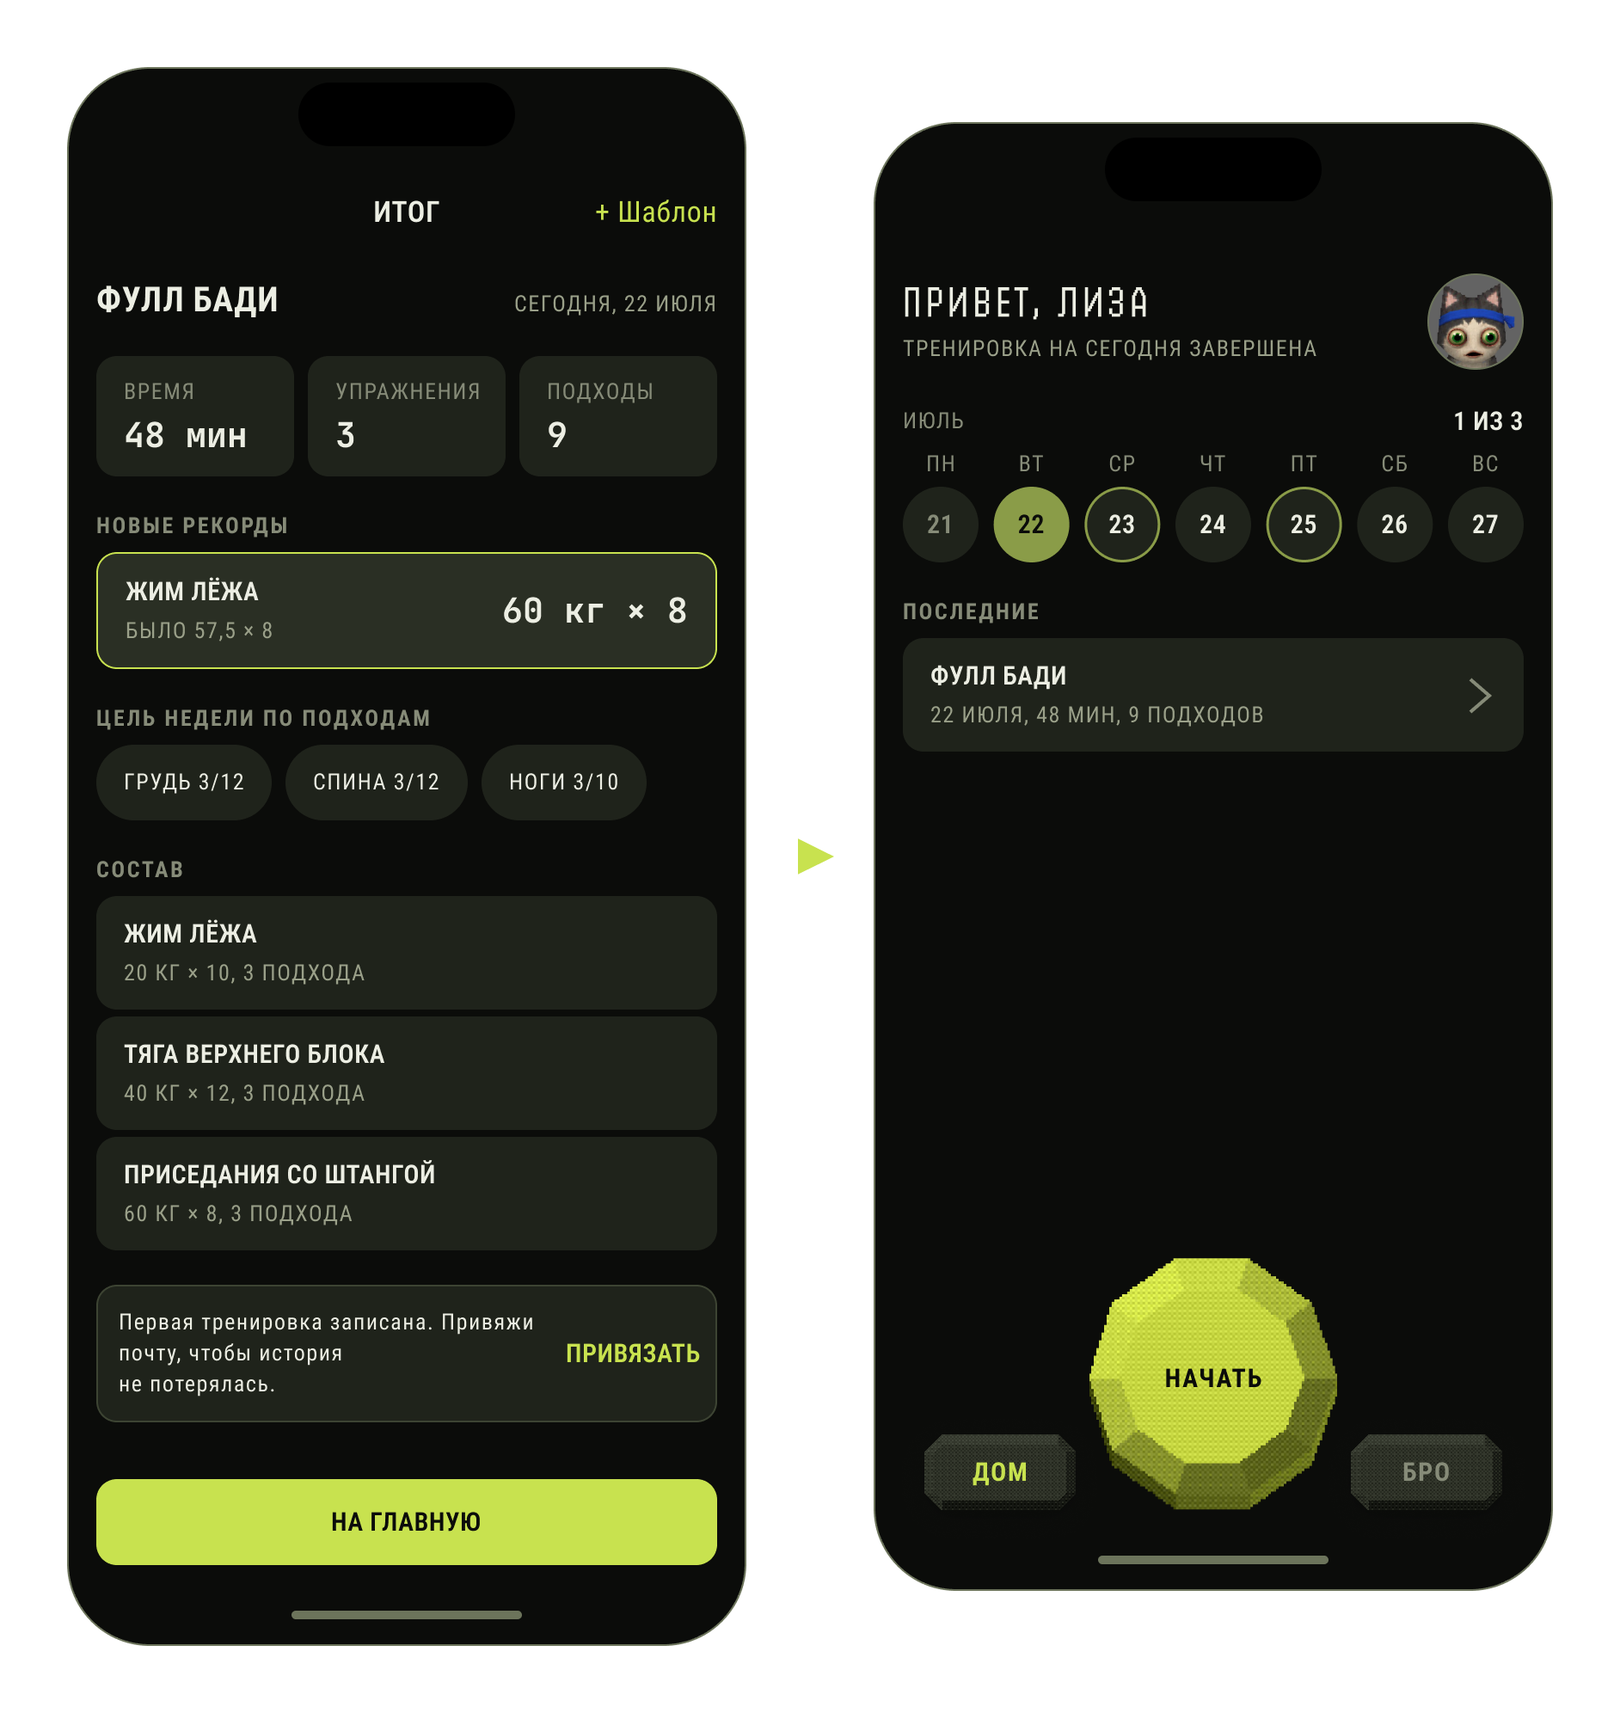
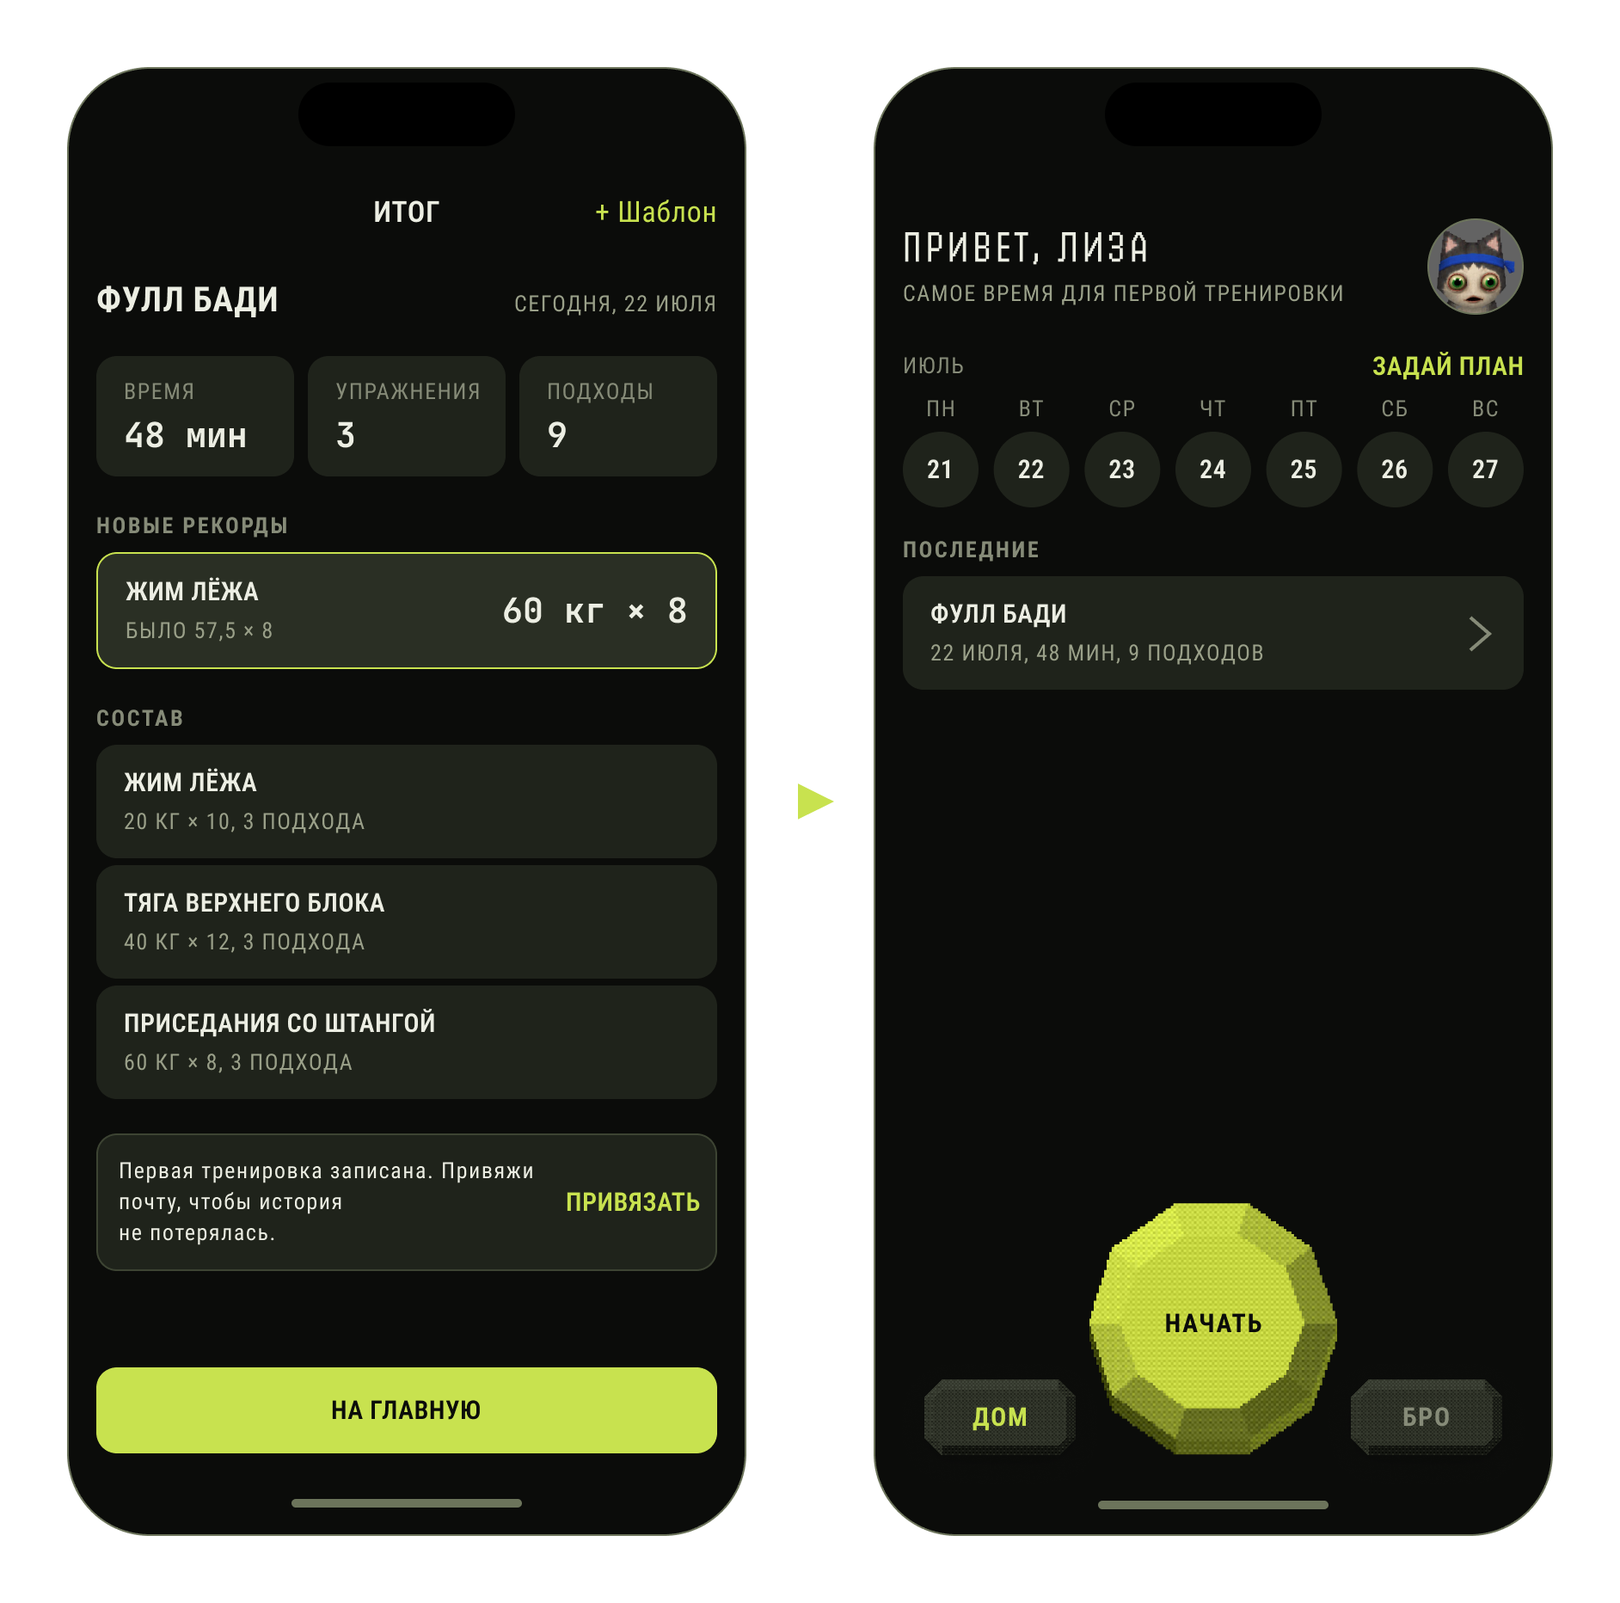
Gym Bro: trim the text, new path pictures and the start buttons
Removed: the rest-timer note, "С главной шаблоны убрала", the template
hypothesis note, "Главная говорит, что происходит" with its two-home
picture, the "легко испортить" sentence, "Что убрала" about "Я тоже иду
сегодня", and the five-accents sentence. "Поэтому механика держится" is
now "Механика держится на трёх слоях".

New exports for path steps 1 and 5 and the first launch; a picture of the
"Начать" and "Начать по плану" buttons follows "Кнопка подсказывает, что
начнётся". Step 5's caption now matches its home screen.

Claude-Session: https://claude.ai/code/session_016deTy2BBLLhJceshsmTCAT

diff --git a/cases/gym-bro.html b/cases/gym-bro.html
@@ -169,8 +169,8 @@
           <figcaption>4. Отмечаю подходы, пока не будут готовы все упражнения.</figcaption>
         </figure>
         <figure class="case-figure case-figure--cutout">
-          <img class="case-figure__img--pair" src="/src/assets/cases/gym-bro/flow-5.webp" srcset="/src/assets/cases/gym-bro/flow-5-560w.webp 560w, /src/assets/cases/gym-bro/flow-5-1120w.webp 1120w, /src/assets/cases/gym-bro/flow-5.webp 1884w" sizes="(max-width: 640px) calc(100vw - 48px), 560px" data-zoom alt="Итог тренировки с рекордом и предложением привязать почту, затем главная с завершённой тренировкой" width="1884" height="1992" loading="lazy" decoding="async" />
-          <figcaption>5. Итог с рекордами и главная, где тренировка на сегодня завершена.</figcaption>
+          <img class="case-figure__img--pair" src="/src/assets/cases/gym-bro/flow-5.webp" srcset="/src/assets/cases/gym-bro/flow-5-560w.webp 560w, /src/assets/cases/gym-bro/flow-5-1120w.webp 1120w, /src/assets/cases/gym-bro/flow-5.webp 1884w" sizes="(max-width: 640px) calc(100vw - 48px), 560px" data-zoom alt="Итог тренировки с рекордом и предложением привязать почту, затем главная, где тренировка уже в списке последних" width="1884" height="1992" loading="lazy" decoding="async" />
+          <figcaption>5. Итог с рекордами, а на главной тренировка уже в списке последних.</figcaption>
         </figure>
 
         <h3 id="start">С чего я начинала</h3>
@@ -218,11 +218,6 @@
           <li><strong>Графики прогресса.</strong> Осмысленный график требует хотя бы 8 недель данных.</li>
           <li><strong>Кнопки ±2,5 кг над клавиатурой.</strong> Вес уже подставлен, а меняется он не всегда на один шаг.</li>
         </ul>
-
-        <div class="case-callout">
-          <span class="case-callout__icon">💡</span>
-          <p>Таймер отдыха и совместную тренировку в реальном времени я не делаю совсем. Таймер мне не нужен. Общий лог сложно синхронизировать, а паре, которая стоит в одном зале, он ни к чему.</p>
-        </div>
       </div>
 
       <!-- Ключевые решения -->
@@ -255,29 +250,22 @@
         <h3 id="start-button">3. Кнопка «Начать» знает про план</h3>
         <p>Сначала кнопка «Начать» всегда открывала новую пустую тренировку. Но если я накануне собрала тренировку на сегодня, в зале я по привычке жму большую кнопку и снова ввожу название и выбираю упражнения. Подготовка пропадает.</p>
         <p><strong>Кнопка подсказывает, что начнётся.</strong> Когда на сегодня есть план, на ней написано «Начать по плану», и она открывает собранную тренировку. Под составом тихая ссылка «Другая тренировка», если планы поменялись. Над кнопкой карточка «План на сегодня» с названием и числом упражнений, поэтому подробности видно ещё до нажатия.</p>
+
+        <figure class="case-figure case-figure--cutout">
+          <img src="/src/assets/cases/gym-bro/start-buttons.webp" srcset="/src/assets/cases/gym-bro/start-buttons-584w.webp 584w, /src/assets/cases/gym-bro/start-buttons-1168w.webp 1168w, /src/assets/cases/gym-bro/start-buttons.webp 1780w" sizes="(max-width: 1100px) min(calc(100vw - 48px), 872px), 584px" data-zoom alt="Нижняя панель: кнопка «Начать», а когда на сегодня есть план, «Начать по плану»" width="1780" height="454" loading="lazy" decoding="async" />
+          <figcaption>Без плана кнопка просто «Начать», с планом «Начать по плану».</figcaption>
+        </figure>
+
         <p><strong>Шаблоны там, где придумываешь название.</strong> Если плана нет, кнопка открывает окно с названием. Под полем сразу стоят мои шаблоны: шаблон уже назван, поэтому вводить ничего не надо, один тап и открывается его состав. Если шаблоны есть, клавиатура сразу не выезжает, чтобы не закрывать их. Если шаблонов нет, клавиатура открывается сразу, ведь название всё равно придётся ввести.</p>
-        <p><strong>С главной шаблоны убрала.</strong> Раньше они висели на главной отдельной строкой. Теперь они там, где выбирают, с чего начать, а главная стала короче.</p>
 
         <figure class="case-figure case-figure--cutout">
           <img class="case-figure__img--pair" src="/src/assets/cases/gym-bro/start-template.webp" srcset="/src/assets/cases/gym-bro/start-template-560w.webp 560w, /src/assets/cases/gym-bro/start-template-1120w.webp 1120w, /src/assets/cases/gym-bro/start-template.webp 1884w" sizes="(max-width: 640px) calc(100vw - 48px), 560px" data-zoom alt="Окно «Начать тренировку» с полем для названия и шаблонами, затем состав тренировки с кнопками «Начать тренировку» и «Другая тренировка»" width="1884" height="1864" loading="lazy" decoding="async" />
           <figcaption>Начать по шаблону: окно с шаблонами и состав тренировки.</figcaption>
         </figure>
 
-        <div class="case-callout">
-          <span class="case-callout__icon">💡</span>
-          <p>Это гипотеза, которую проверю на людях: будут ли они искать свои шаблоны на главной после того, как сохранили тренировку. Если да, верну их или сделаю раздел «Шаблоны» в профиле.</p>
-        </div>
-
-        <p><strong>Главная говорит, что происходит.</strong> Если тренировка уже идёт, на главной крупная карточка «Идёт сейчас»: название, сколько минут и сколько подходов записано, и кнопка «Завершить как есть». Раньше об этом говорила только подпись «Продолжить» на кнопке. Тап по дню в календаре открывает шторку «Эта неделя»: можно перенести тренировку на другой день, а ссылка «Весь план» ведёт к настройке плана.</p>
-
-        <figure class="case-figure case-figure--cutout">
-          <img class="case-figure__img--pair" src="/src/assets/cases/gym-bro/home-plan.webp" srcset="/src/assets/cases/gym-bro/home-plan-560w.webp 560w, /src/assets/cases/gym-bro/home-plan-1120w.webp 1120w, /src/assets/cases/gym-bro/home-plan.webp 1828w" sizes="(max-width: 640px) calc(100vw - 48px), 560px" data-zoom alt="Главная с карточкой «План на сегодня» и кнопкой «Начать по плану», и главная с карточкой «Идёт сейчас»" width="1828" height="1864" loading="lazy" decoding="async" />
-          <figcaption>Главная: план на сегодня и тренировка, которая идёт.</figcaption>
-        </figure>
-
         <h3 id="bro">4. Напарник без ленты</h3>
-        <p>Напарник это фича, которую я раньше не встречала в спортивных приложениях. И её легко испортить: стоит добавить комментарии и список активности, и получится маленькая соцсеть, в которую заходят вместо тренировки.</p>
-        <p>Поэтому механика держится на трёх слоях.</p>
+        <p>Напарник это фича, которую я раньше не встречала в спортивных приложениях.</p>
+        <p>Механика держится на трёх слоях.</p>
         <p><strong>Видимость.</strong> Только факты: неделя подруги, её подходы по группам мышц, последние тренировки, статус «тренируется сейчас». Что из этого видно, каждый настраивает сам. Скрытое просто не показывается, без пояснений.</p>
         <p><strong>Реакции.</strong> Двойной тап по тренировке ставит сердечко, долгое нажатие открывает выбор реакций, как в Telegram. Реакция появляется прямо в строке тренировки. Отдельного списка уведомлений нет, потому что реакция относится к конкретной тренировке.</p>
 
@@ -310,10 +298,8 @@
           <figcaption>Пинок.</figcaption>
         </figure>
 
-        <p><strong>Что убрала.</strong> «Я тоже иду сегодня» была расписана полностью. Но кнопка передаёт намерение, а всё остальное в механике опирается на факты. Настоящее действие уже есть на экране: кнопка «Начать». Кто пошёл, тот начал тренировку, и подруга видит «тренируется сейчас».</p>
-
         <h3 id="visual">5. Визуал работает на сценарий</h3>
-        <p><strong>Лайм значит «можно нажать».</strong> Яркий лаймовый закреплён за действиями: кнопки, ссылки, круглая «Начать». Состояния вроде выполненного дня набраны приглушённым лаймом. Когда лайм был везде, на главной было пять акцентных пятен, и главное действие терялось.</p>
+        <p><strong>Лайм значит «можно нажать».</strong> Яркий лаймовый закреплён за действиями: кнопки, ссылки, круглая «Начать». Состояния вроде выполненного дня набраны приглушённым лаймом.</p>
         <p><strong>Круглая «Начать» в центре панели.</strong> Это самое частое действие, и до него большой палец дотягивается не глядя. Во время тренировки кнопка меняется на «Продолжить».</p>
 
         <figure class="case-figure case-figure--cutout">
